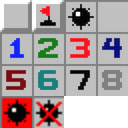
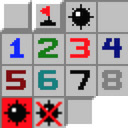
All seems to work except for sluggishness and false flags.

Changed region(s): [[0.5, 0.75, 0.75, 1.0]]

diff --git a/lib/view.js b/lib/view.js
@@ -10,7 +10,7 @@ var window = window || this;
     this.addSubViews(options);
     this.addListeners(options);
     this.renderInitialView(options);
-  }
+  };
 
   View.WIDTH = 800;
   View.HEIGHT = 400;
@@ -55,6 +55,8 @@ var window = window || this;
       options.resetButton.addEventListener('click', this.reset.bind(this));
 
       var on = this.canvas.addEventListener.bind(this.canvas);
+
+      var printPosition;
       on('mousedown', function(e) {
         buttons++;
       });
@@ -101,14 +103,12 @@ var window = window || this;
 
     handleLeftClick: function(e) {
       if (this.game.over) {
-        return ;
+        return;
       } else if (!this.game.begun) {
         this.start();
       }
 
       var view = this;
-      var ctx = view.ctx;
-      var tiles = view.tiles;
       var pos = view.tiles.calculateCell(e);
       var result = view.game.reveal(pos);
       this.draw();

diff --git a/lib/tiles.js b/lib/tiles.js
@@ -23,8 +23,6 @@ var window = window || this;
     'undefined': {r:0, c:0},
     'flag': {r:0, c:1},
     'bomb': {r:0, c:2},
-    'exploded': {r:3, c:0},
-    'falseflag': {r:3, c:1},
     '0': {r: 0, c:3},
     '1': {r: 1, c:0},
     '2': {r: 1, c:1},
@@ -33,7 +31,10 @@ var window = window || this;
     '5': {r: 2, c:0},
     '6': {r: 2, c:1},
     '7': {r: 2, c:2},
-    '8': {r: 2, c:3}
+    '8': {r: 2, c:3},
+    'exploded': {r:3, c:0},
+    'falseflag': {r:3, c:1},
+    'active': {r:3, c:2},
   };
 
   Tiles.prototype = ({
